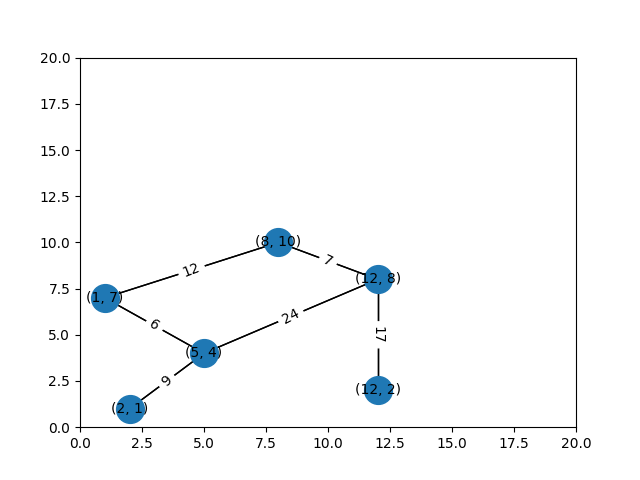
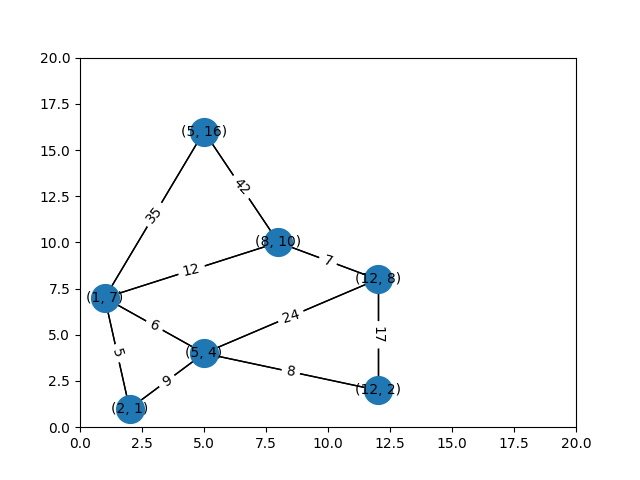
a star algorithm working

diff --git a/project/functions.py b/project/functions.py
@@ -1,10 +1,11 @@
 import networkx as nx
 import matplotlib.pyplot as plt
 import math
+from collections import deque
+from queue import PriorityQueue
 def euclidian(source, dest):
     """The Euclidian Distance Formula is used to find the distance between two points
     This function takes in two coords with format [x,y] and returns the Euclidian distance between the two points
-
     Returns:
         _type_: float
     """
@@ -12,33 +13,118 @@ def euclidian(source, dest):
     return distance
 
 def manhattan(source, dest):
-    """Manhattan Distabce Fr=ormula is isued to calculate the manhattan distance from two point
-
+    """Manhattan Distance Formula is isued to calculate the manhattan distance from two point
     Args:
         source (list): [x1, y1]
         dest (list): [x2, y2]]
-
     Returns:
         _type_: int
     """
     distance = abs(source[0] - dest[0]) + abs(source[1] - dest[1])
     return distance
 
+def g(G, start, current):
+    """Calculates cost of the path from the start node to n
+    Args:
+        start (tuple): a tuple of the4 starting node's (x,y) coords
+        n (tuple): tuple of the current nodes (x,y) coords
+    Returns:
+        int: cost of path from start node to n
+    """
+    return nx.shortest_path_length(G, start, current, weight='weight')
+
+
+def a_star_2(G, source, dest):
+    """Graph algorithm that uses heuristics to quickly determine a path from
+       source to dest. 
+    Args:
+        G (networkx.classes.graph.Graph): A networkx graph
+        source (tuple): our start position
+        dest (tuple): our goal
+    Returns:
+        list: list of nodes on the path from source to dest
+    """
+    open = PriorityQueue() # contains visited nodes that have not yet been expanded
+    inOpen = set() # set to keep track of nodes in priority queue, since we can't check the queue itself to see if it contains an object
+    closed = set()
+    open.put((0, source))
+    inOpen.add(source)
+    parents = {}
+    path = []
+    parents[source] = source
+    while open.empty() == False:
+        current = open.get()
+        current = current[1]
+        inOpen.discard(current)
+        if current not in path:
+            path.append(current)
+        if current == dest:
+            print("FOUND")
+            print(path)
+            return True
+        else:
+            for neighbor in G.neighbors(current):
+                neighbor_cost = g(G, source, current) + G.get_edge_data(current, neighbor).get('weight')
+                if neighbor in inOpen:
+                    if g(G, source, neighbor) <= neighbor_cost:
+                        continue
+                elif neighbor in closed:
+                    if g(G, source, neighbor) <= neighbor_cost:
+                        continue
+                    else:
+                        closed.discard(neighbor)
+                        f = g(G, source, neighbor) + euclidian(source=source, dest=dest)
+                        open.put((f, neighbor))
+                        inOpen.add(neighbor)
+                else:
+                    f = g(G, source, neighbor) + euclidian(source=source, dest=dest)
+                    open.put((f, neighbor))
+                parents[neighbor] = current
+        closed.add(current)
+    if current != dest:
+        return False
+    else:
+        return True
+
+    
 def a_star(G, source, dest):
     """Graph algorithm that uses heuristics to quickly determine a path from
-       source to dest.
-
+       source to dest. 
     Args:
-        G (networkx.classes.graph.Graph): A 2D grid graph
-        source (_type_): _description_
-        dest (_type_): _description_
-
+        G (networkx.classes.graph.Graph): A networkx graph
+        source (tuple): our start position
+        dest (tuple): our goal
     Returns:
-        _type_: _description_
+        list: list of nodes on the path from source to dest
     """
-    open = [] # contains 
-    closed = []
-    return None
+    open = PriorityQueue() # contains 
+    inOpen = set()
+    closed = set()
+    open.put((0, source))
+    inOpen.add(source)
+    parents = {}
+    parents[source] = source
+    dist = 0 # g
+    while open.empty() == False:
+        current = open.get()
+        if current == dest:
+            print("FOUND")
+            return True
+        closed.add(current)
+        for neighbor in G.neighbors(current):
+            if neighbor not in closed:
+                f = g(G, source, current) + euclidian(source=source, dest=dest)
+                if neighbor not in inOpen:
+                    open.put((f, neighbor))
+                    inOpen.add(neighbor)
+                    parents[neighbor] = current
+                # else:
+                #     existingNeighbor = open.queue[0]
+                #     n = g(source, neighbor, dist)
+                #     m = g(source, existingNeighbor, dist)
+                #     if n < m:
+                #         parents[existingNeighbor] = parents[neighbor]
+    return False
 
 def add_edge_to_graph(G, e1, e2, w):
     """helper function to efficently add weighted edges and nodes with coordinates as well
@@ -49,3 +135,13 @@ def add_edge_to_graph(G, e1, e2, w):
         w (int): weight of edge
     """
     G.add_edge(e1, e2, weight=w)
+    
+def print_path(parents):
+    if len(parents) <= 0:
+        return
+
+def tupleBuilder(a, b):
+    a = int(a)
+    b = int(b)
+    return (a, b)
+    

diff --git a/project/main.py b/project/main.py
@@ -2,7 +2,7 @@ import networkx as nx
 import math
 import random
 import matplotlib.pyplot as plt
-from functions import euclidian, manhattan, a_star, add_edge_to_graph
+from functions import *
 
 #what I want to do
 """
@@ -17,16 +17,38 @@ G = nx.Graph()
 
 #            0       1         2       3       4        5       6
 points = [(1, 7), (8, 10), (12, 8), (5, 4), (2, 1), (12, 2), (5, 16)]  # (x,y) points
-edges = [(0, 1, 12), (1, 2, 7), (2, 3, 24), (0, 3, 6), (3, 4, 9), (2, 5, 17), (6, 1, 42)]  # (u, v, weight) edges
+edges = [(0, 1, 12), (1, 2, 7), (2, 3, 24), (0, 3, 6), (3, 4, 9), (2, 5, 17), (6, 1, 42), (3, 5, 8), (6, 0, 35), (0, 4, 5)]  # (u, v, weight) edges
+
+for i in range(len(points)):
+    G.add_node(points[i], coords=points[i])
 
 for i in range(len(edges)):
     add_edge_to_graph(G, points[edges[i][0]], points[edges[i][1]], edges[i][2])
 # Custom graph layout
 pos = {point: point for point in points}
 
+
+# Debug Stuff
+# for i in range(0, len(G.nodes)):
+#     print(list(G.nodes)[i])
+# print(type(G.nodes[(1,7)]))
+# print(G.nodes[(1,7)]['coords'])
+# print(G.nodes[0])
+print(G.edges)
+print(G.get_edge_data((1, 7), (2, 1)).get('weight'))
+print(type(G.get_edge_data((1, 7), (2, 1)).get('weight')))
+
+
+
+# for k in G.nodes():
+#     print(k," ",type(k))
+
+# ABOVE LINE IS HOW TO ACCESS NODES
 # adding axis
 fig, axis = plt.subplots()
 edge_labels = nx.get_edge_attributes(G, 'weight')
+
+
 
 nx.draw(G, pos=pos, ax=axis)
 nx.draw_networkx_nodes(G, pos, node_size=400, ax=axis)
@@ -39,19 +61,20 @@ axis.set_ylim(0, 20)
 axis.tick_params(left=True, bottom=True, labelleft=True, labelbottom=True)
 plt.savefig("G2.png")
 plt.close()
-# g.add_node(2)
-# g.add_node(5)
-# g.add_edge(2, 5)
-# g.add_edge(1,'G')
-# g.add_edge(2,3)
-# g.add_edge(3,4)
-# g.add_edge(1,4)
-# g.add_edge(1,5)
-# g.add_edge(4,1)
+
+x1 = input("Please enter x1 coord: ")
+y1 = input('Please enter y1 coord: ')
+x2 = input('Please enter x2 coord: ')
+y2 = input('Please enter y2 coord: ')
+source = tupleBuilder(x1, y1)
+dest = tupleBuilder(x2, y2)
+# print(source, dest)
+# source = 
 
 
 plt.clf()
-
+a = a_star_2(G, source, dest)
+print(a)
 # f = nx.Graph()
 # f = nx.grid_2d_graph(1,2)
 

diff --git a/project/grid-backup.py b/project/grid-backup.py
@@ -5,13 +5,13 @@ from functions import euclidian, manhattan, a_star
 
 f = nx.Graph()
 j = f.nodes()
-g = nx.grid_2d_graph(9,5)
+G = nx.grid_2d_graph(9,5)
 plt.figure(figsize=(8,8))
-coords = {(x,y):(y,-x) for x,y in g.nodes()}
-print(list(g.nodes(data=True)))
-g.add_edges_from([('(0,0)', '(0,1)', {'weight':"1"})])
+coords = {(x,y):(y,-x) for x,y in G.nodes()}
+print(list(G.nodes(data=True)))
+# G.add_edges_from([('(0,0)', '(0,1)', {'weight':"1"})])
 plt.axis('on')
-nx.draw(g, pos=coords, node_color='lightblue', with_labels=True)
-print(type(g.nodes.get(1)))
+nx.draw(G, pos=coords, node_color='lightblue', with_labels=True)
+print(type(G.nodes.get(1)))
 # edges = {('(0,0)', '(0,1)') : '2nd Street'}
 # nx.draw_networkx_edge_labels(f, coords, edge_labels=edges)
